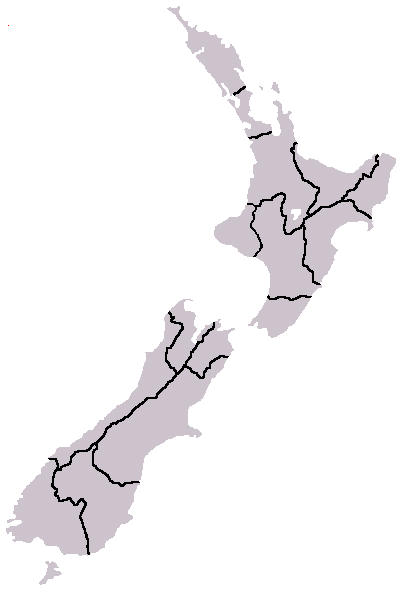
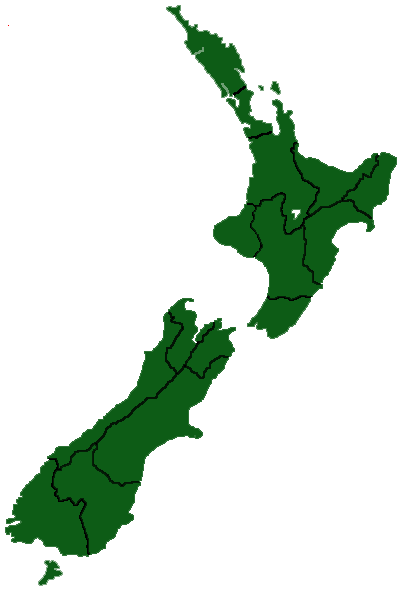
Added an image of New Zealand to the front page, this is on the wrong branch lol

Changed region(s): [[0.4444, 0.0305, 0.9778, 0.5797], [0.0, 0.4881, 0.5926, 1.0], [0.4148, 0.0, 0.4444, 0.0305]]

diff --git a/DCS/src/routes/+page.svelte b/DCS/src/routes/+page.svelte
@@ -5,16 +5,30 @@
 
 <Header />
 
-<div class="AlertsCard">
-    <h3>Recent Alerts</h3>
-    <ul class="AlertsList">
-        <li>Theres been a mutiny in Nelson<br>
-            18/10/2024 9:32am</li>
-        <li> </li>
-    </ul>
+<div class="PageContentContainer">
+    <div class="AlertsCard">
+        <h3>Recent Alerts</h3>
+        <ul class="AlertsList">
+            <li>Theres been a mutiny in Nelson<br>
+                18/10/2024 9:32am</li>
+            <li> </li>
+        </ul>
+    </div>
+
+    <img src="src\lib\Images\New_Zealand_Regions.png" alt="A map of New Zealand">
 </div>
 
+
+
+
 <style>
+
+    .PageContentContainer {
+        display: flex;
+        flex-direction: row;
+        height: 100%;
+        width: 100%;
+    }
 
     .AlertsCard{
         display: flex;
@@ -22,7 +36,7 @@
         border: solid;
         width: 25em;
         min-height: 80vh;
-        margin-top: 0.5em;
+        justify-self: left;
     }
 
     .AlertsCard h3 {
@@ -30,7 +44,14 @@
         font-size: 180%;
         text-align: center;
     }
-    
+
+    img {
+        justify-self: center;
+        max-height: 100%;
+        width: auto;
+        border: solid;
+    }
+
 </style>
 
 <Footer />
